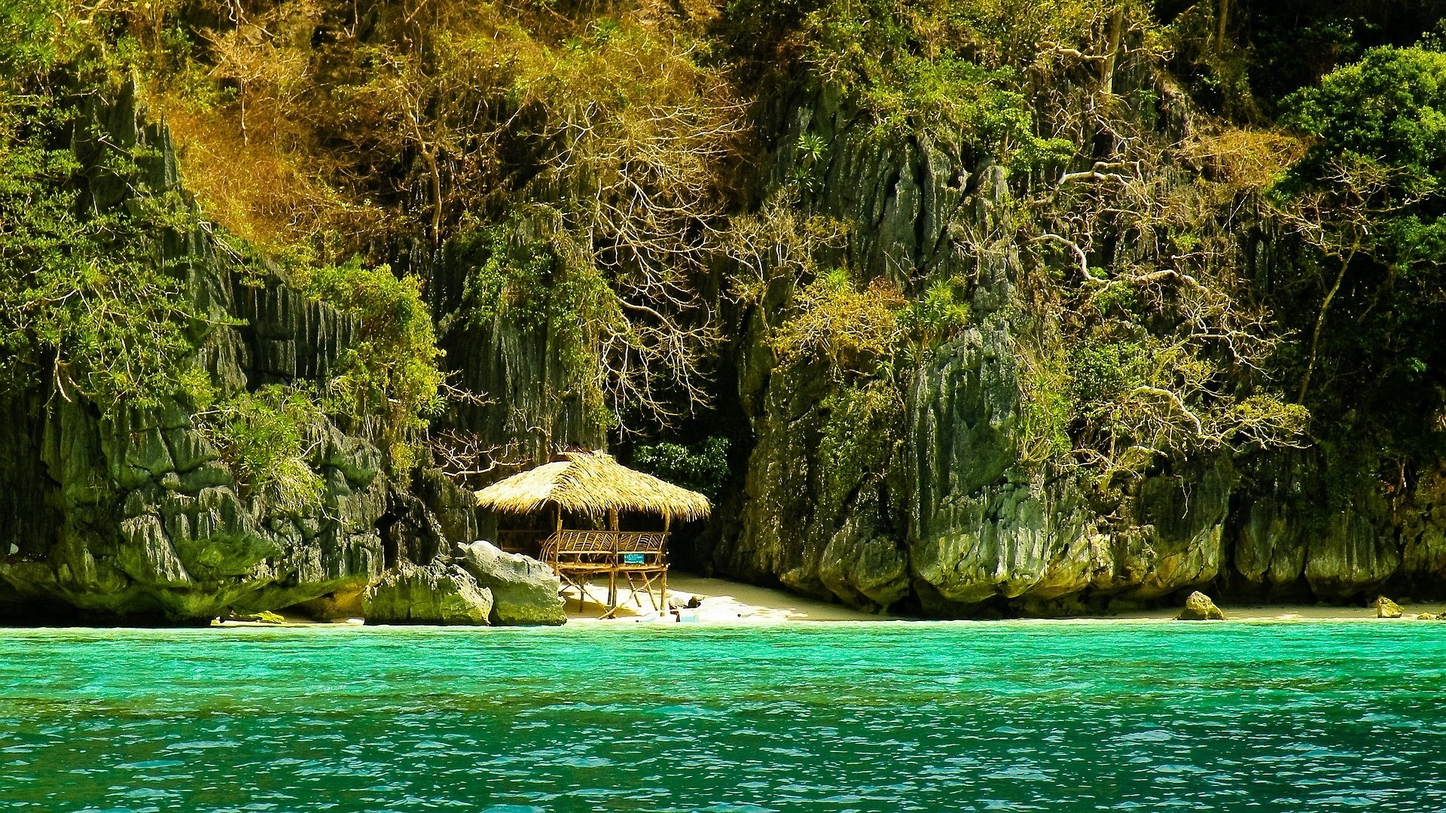
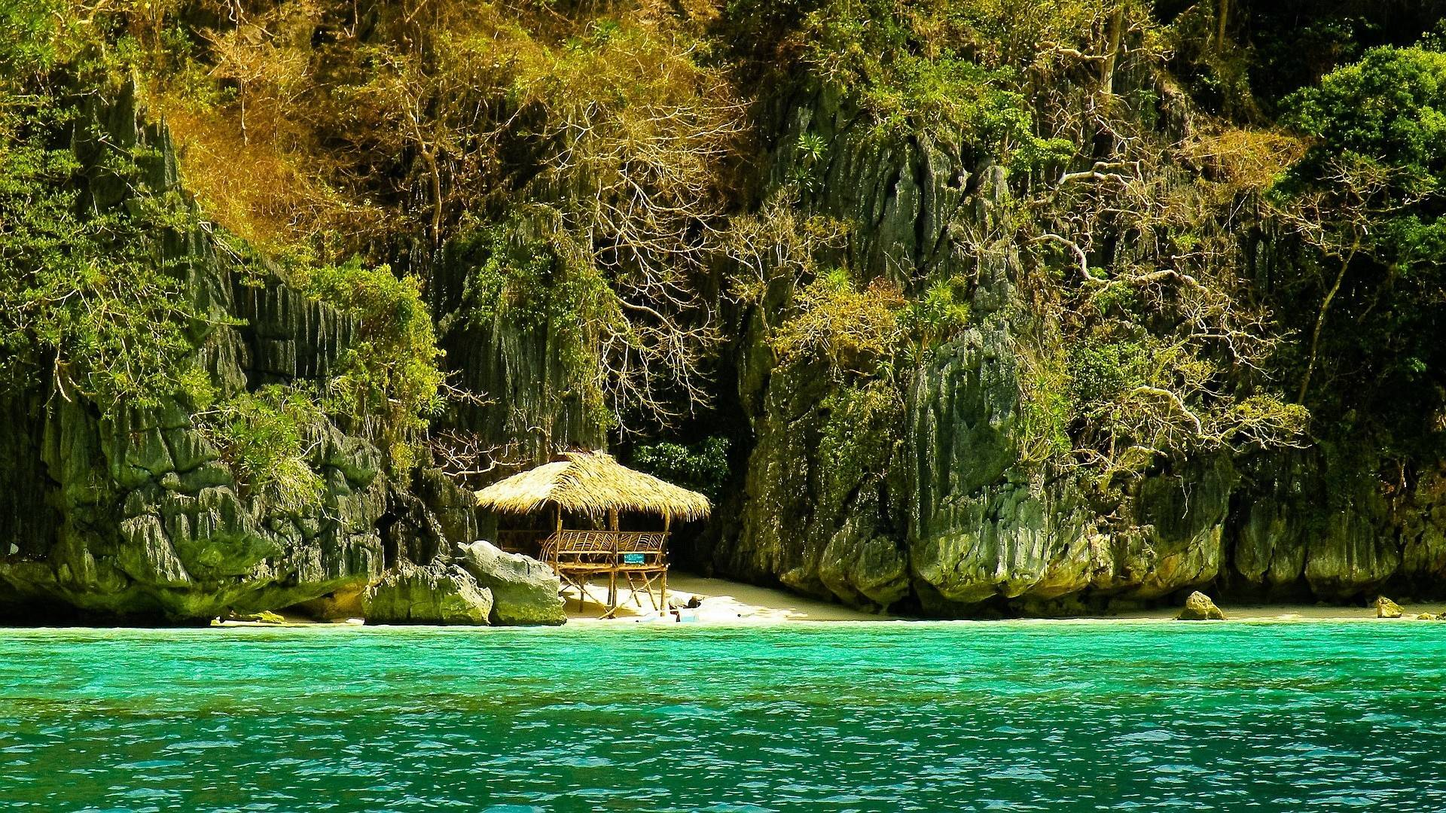
• modified files in lesser quality for performance reasons

diff --git a/src/data.js b/src/data.js
@@ -4,14 +4,15 @@ import ancientPhScripts from './images/carousel/theAncientPhScripts.jpg';
 import bambooBaybayin from './images/carousel/Baybayin-Carved-on-Bamboo-Stem.jpg';
 import baybayinConferenceProgram from './images/carousel/Baybayin-conference-program.jpg';
 import hashTag from './images/carousel/hashTagFilipinoAncientWriting.jpg';
-import kultura from './images/carousel/927ac4bcedcbac58491f335cb67e4a87.jpg';
+import kultura from './images/carousel/kultura.jpg';
 import chars from './images/carousel/baybayinCharacters.png';
+import saligUgOras from './images/carousel/saligUgOras.jpg';
 
 import keyboard from './images/homeItems/baybayin_QWERTY_keys-1080x500.jpg';
 import baybayinDotCom from './images/homeItems/baybayinDotCom.jpg';
 import natMuseum from './images/homeItems/national-museum-baybayin-gc_4503.jpg';
 import baybayinPinas from './images/homeItems/baybayinPinas.jpg';
-import baybayinBuhayin from './images/homeItems/baybayinBuhayin.png';
+import baybayinBuhayin from './images/homeItems/baybayinBuhayin.jpg';
 import nordenx from './images/homeItems/nordenx.jpg';
 import baybayinScript from './images/homeItems/baybayinScript.jpg';
 
@@ -73,6 +74,9 @@ export const carouselImages = [
         image: theRules,
         name: '',
         link: 'https://www.facebook.com/baybayinpinas/'
+    },
+    {
+        image: saligUgOras,
     },
     {
         image: phNativeScrips,
